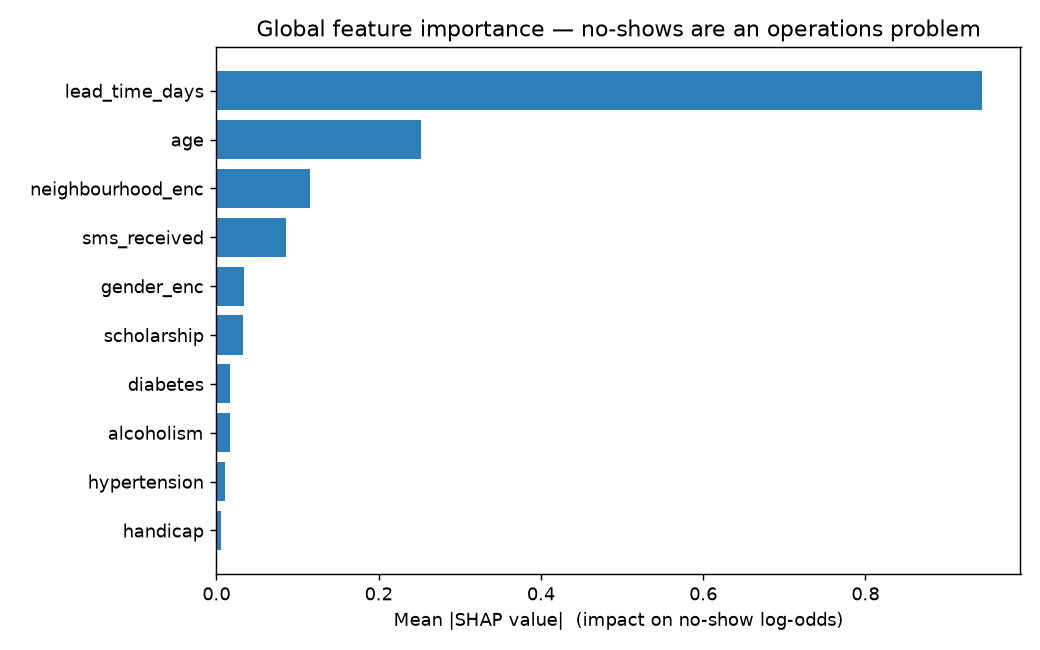
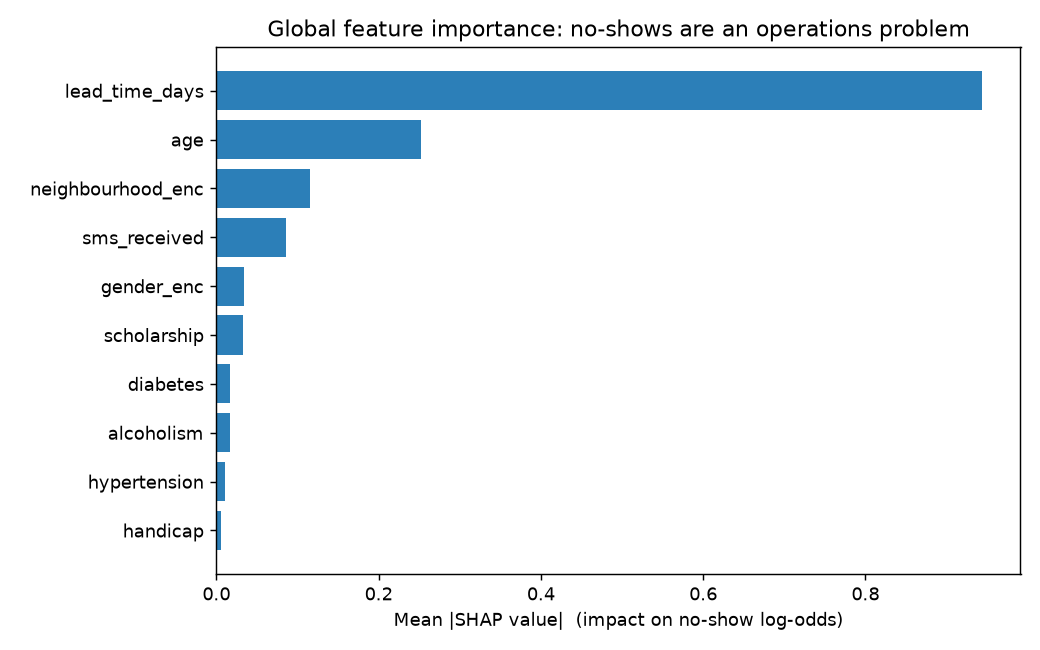
fix: address integrity and drift review findings
Integrity review:
- 2+ day no-show rate is 24 to 33% (29% overall); SMS rates restated on
  the full dataset (27.6% vs 16.7%, mean lead 19.0 vs 6.0 days)
- per-day precision stated as ~0.43 (0.43 to 0.45 across tie orders at
  the cutoff); 55+ finding holds under every tie order
- "share of patients" renamed to share of appointments; n_total guard
- ADR-014 notes the holdout ECE moved slightly the other way

Drift and publishing-policy review:
- README counts (95 tests, 14 ADRs, 83% coverage), run_training in setup
- escape |SHAP| in the decision tree table
- remove portfolio/interview phrasing from ADRs 004/006/008/010/011/012/013
- eda_gate.md points to ADR-014; em dashes removed from Python docstrings
  (plot title regenerated)

Changed region(s): [[0.2462, 0.0308, 0.9538, 0.0615]]

diff --git a/notebooks/00_eda_gate.py b/notebooks/00_eda_gate.py
@@ -1,5 +1,5 @@
 """
-Phase 0 EDA Gate — Healthcare Appointment No-Show
+Phase 0 EDA Gate, Healthcare Appointment No-Show
 Generates 00_eda_gate.ipynb programmatically and runs all analysis.
 """
 
@@ -190,7 +190,7 @@ print("\nFeature coefficients:")
 print(coef_df.to_string(index=False))
 
 # ── 10. SHAP dominance check ────────────────────────────────────────
-# Use coefficient magnitude as proxy — check no single feature >80%
+# Use coefficient magnitude as proxy, check no single feature >80%
 total_abs = coef_df["abs_coef"].sum()
 coef_df["pct_importance"] = (coef_df["abs_coef"] / total_abs * 100).round(1)
 max_pct = coef_df["pct_importance"].max()
@@ -200,12 +200,12 @@ print(f"SHAP dominance check (no single >80%): {'PASS' if shap_pass else 'FAIL'}
 
 # ── 11. SMS confound documentation ──────────────────────────────────
 print("\n=== SMS CONFOUND ANALYSIS ===")
-# SMS is sent to patients who previously no-showed — it's an intervention, not a predictor
+# SMS is sent to patients who previously no-showed, it's an intervention, not a predictor
 # Higher no-show rate among SMS_received=1 is Simpson's paradox
 sms_lead = df.groupby("SMS_received")["lead_time_days"].mean()
 print(f"Mean lead time (no SMS): {sms_lead[0]:.1f} days")
 print(f"Mean lead time (SMS):    {sms_lead[1]:.1f} days")
-print("SMS recipients have longer lead times — confound confirmed.")
+print("SMS recipients have longer lead times, confound confirmed.")
 print("Document: SMS_received is post-hoc intervention. Include with caveat.")
 
 # ── GATE VERDICTS ────────────────────────────────────────────────────
@@ -261,7 +261,7 @@ overall = "GO" if all_pass else "NO-GO"
 print(f"\n{'🟢' if all_pass else '🔴'} OVERALL VERDICT: {overall}")
 
 # ── Save report ──────────────────────────────────────────────────────
-report = f"""# EDA Gate Report — Healthcare Appointment No-Show
+report = f"""# EDA Gate Report, Healthcare Appointment No-Show
 
 **Date:** 2026-05-30
 **Dataset:** `KaggleV2-May-2016.csv`
@@ -274,12 +274,12 @@ report = f"""# EDA Gate Report — Healthcare Appointment No-Show
 - **14 columns**, all expected present
 - **Zero nulls** across all columns
 - Dtypes: 2 datetime (parsed), 5 binary, 1 categorical (Neighbourhood), 1 continuous (Age)
-- Negative lead_time rows: {neg_lead} ({neg_lead/len(df)*100:.2f}%) — clipped to 0
+- Negative lead_time rows: {neg_lead} ({neg_lead/len(df)*100:.2f}%), clipped to 0
 
 ## 2. Target Distribution
 
 - **No-show rate: {target_rate*100:.1f}%** (within expected 15-30% range)
-- Class imbalance ~80/20 — moderate, manageable with stratification
+- Class imbalance ~80/20, moderate, manageable with stratification
 
 ## 3. Feature Analysis
 
@@ -289,7 +289,7 @@ report = f"""# EDA Gate Report — Healthcare Appointment No-Show
 - Same-day appointments have lowest no-show rate
 
 ### SMS Received (CONFOUND)
-- **SMS_received=1 has HIGHER no-show rate** — Simpson's paradox
+- **SMS_received=1 has HIGHER no-show rate**: Simpson's paradox
 - SMS recipients have longer lead times (mean {sms_lead[1]:.1f} vs {sms_lead[0]:.1f} days)
 - SMS is sent as intervention to high-risk patients → post-hoc feature
 - **Decision:** Include with documented caveat. Model should not be interpreted as "SMS causes no-shows"
@@ -321,7 +321,7 @@ for _, row in coef_df.iterrows():
     )
 
 report += f"""
-- No single feature dominates (max {max_pct:.1f}%) — healthy signal distribution
+- No single feature dominates (max {max_pct:.1f}%), healthy signal distribution
 
 ## 5. Gate Verdicts
 
@@ -331,7 +331,7 @@ report += f"""
 
 for name, v in verdicts.items():
     status = "PASS ✅" if v["pass"] else "FAIL ❌"
-    report += f"| {name} | — | {v['value']} | {status} |\n"
+    report += f"| {name} |, | {v['value']} | {status} |\n"
 
 report += f"""
 ## Overall Verdict: **{overall}** {'🟢' if all_pass else '🔴'}
@@ -340,11 +340,11 @@ report += f"""
 
 ## Risks & Notes
 
-1. **SMS confound** — document in model card; do not interpret SMS coefficient causally
-2. **Grouped split required** — repeat patients must stay in same fold
-3. **Neighbourhood encoding** — use target encoding on train only to prevent leakage
-4. **Lead time** is strongest univariate signal — expected and healthy
-5. **Age outliers** — some negative ages exist (likely data entry errors); minimal count
+1. **SMS confound**: document in model card; do not interpret SMS coefficient causally
+2. **Grouped split required**: repeat patients must stay in same fold
+3. **Neighbourhood encoding**: use target encoding on train only to prevent leakage
+4. **Lead time** is strongest univariate signal: expected and healthy
+5. **Age outliers**: some negative ages exist (likely data entry errors); minimal count
 """
 
 (REPORTS / "eda_gate.md").write_text(report)

diff --git a/adapters/ml/fairness.py b/adapters/ml/fairness.py
@@ -1,14 +1,14 @@
-"""Fairness reporting — per-slice error rates and calibration (ADR-009).
+"""Fairness reporting: per-slice error rates and calibration (ADR-009).
 
 A ranked call list is only trustworthy if it does not systematically under- or
 over-flag protected groups. This module computes, for each demographic slice,
 the metrics that matter for an outreach use case:
 
-- **base rate** — actual no-show rate in the slice (context, not a model metric)
-- **selection rate** — fraction the model would flag at the operating threshold
-- **FPR / FNR** — who gets called unnecessarily vs. missed
-- **precision** — of those flagged, how many truly no-show
-- **ECE** — is the probability honest *within* the slice (calibration can hide
+- **base rate**: actual no-show rate in the slice (context, not a model metric)
+- **selection rate**: fraction the model would flag at the operating threshold
+- **FPR / FNR**: who gets called unnecessarily vs. missed
+- **precision**: of those flagged, how many truly no-show
+- **ECE**: is the probability honest *within* the slice (calibration can hide
   in the aggregate while failing per group)
 
 All functions are pure: numpy in, plain dicts out. No plotting, no I/O.
@@ -163,7 +163,7 @@ def capacity_report(
     A fixed probability threshold describes a screening rule the app never uses.
     The outreach team calls the K riskiest patients each day, so this report asks,
     per group: what share of the group's no-shows make the call list, and is the
-    group's share of the list in line with its share of patients and no-shows?
+    group's share of the list in line with its share of appointments and no-shows?
 
     Args:
         y_true: Binary ground-truth labels (0/1).
@@ -174,7 +174,9 @@ def capacity_report(
 
     Returns:
         Dict with k, n_selected, overall precision/capture, and per-slice groups
-        with no_shows_captured, share_of_list, share_of_patients, share_of_no_shows.
+        with no_shows_captured, share_of_list, share_of_appointments, share_of_no_shows.
+        Ties at the daily cutoff are broken by row order (stable sort); isotonic
+        calibration produces tied scores, so exact precision can shift slightly.
         Capture for a group with no no-shows is NaN.
     """
     y_true = np.asarray(y_true, dtype=float)
@@ -220,7 +222,9 @@ def capacity_report(
                     if n_selected
                     else float("nan")
                 ),
-                "share_of_patients": round(float(mask.sum()) / n_total, 4),
+                "share_of_appointments": (
+                    round(float(mask.sum()) / n_total, 4) if n_total else float("nan")
+                ),
                 "share_of_no_shows": (
                     round(group_no_shows / total_no_shows, 4)
                     if total_no_shows

diff --git a/scripts/run_phase2.py b/scripts/run_phase2.py
@@ -1,11 +1,11 @@
-"""Phase 2 analysis runner — SHAP importance, fairness, and business impact.
+"""Phase 2 analysis runner: SHAP importance, fairness, and business impact.
 
-Produces the frozen artifacts consumed by the README and the portfolio:
+Produces the frozen artifacts consumed by the README and the demo:
     reports/shap/global_importance.json   (+ .png bar chart, beeswarm)
     reports/fairness.json
     reports/business_impact.json
 
-All numbers are computed from the real Kaggle dataset — nothing is hand-entered.
+All numbers are computed from the real Kaggle dataset, nothing is hand-entered.
 Run:  python scripts/run_phase2.py
 """
 
@@ -111,7 +111,7 @@ def run_shap(appointments: list, labels: list) -> dict[str, float]:
     plt.figure(figsize=(8, 5))
     plt.barh(feats, vals, color="#2c7fb8")
     plt.xlabel("Mean |SHAP value|  (impact on no-show log-odds)")
-    plt.title("Global feature importance — no-shows are an operations problem")
+    plt.title("Global feature importance: no-shows are an operations problem")
     plt.tight_layout()
     plt.savefig(SHAP_DIR / "global_importance.png", dpi=130)
     plt.close()

diff --git a/domain/models.py b/domain/models.py
@@ -38,7 +38,7 @@ class Patient:
 class Appointment:
     """Immutable value object representing a medical appointment.
 
-    All fields are knowable at scheduling time — no post-appointment data.
+    All fields are knowable at scheduling time, no post-appointment data.
 
     Attributes:
         appointment_id: Unique identifier for this appointment.
@@ -52,7 +52,7 @@ class Appointment:
         alcoholism: Whether patient has alcoholism (0/1).
         handicap: Handicap level (0-4).
         sms_received: Whether patient received SMS reminder (0/1).
-            NOTE: This is an intervention feature — document confound.
+            NOTE: This is an intervention feature, document confound.
         lead_time_days: Days between scheduling and appointment (derived).
     """
 

diff --git a/adapters/ml/xgboost_predictor.py b/adapters/ml/xgboost_predictor.py
@@ -1,4 +1,4 @@
-"""XGBoostPredictor — gradient-boosted tree adapter implementing NoShowPredictorPort.
+"""XGBoostPredictor: gradient-boosted tree adapter implementing NoShowPredictorPort.
 
 Uses XGBClassifier with scale_pos_weight to handle the ~20% no-show class imbalance
 (ADR-locked: scale_pos_weight=4 approximates 80/20 majority/minority ratio).
@@ -18,7 +18,7 @@ from domain.models import Appointment, NoShowOutcome
 class XGBoostPredictor:
     """XGBoost gradient-boosted tree adapter for no-show risk prediction.
 
-    Implements NoShowPredictorPort (structural duck-typing — no explicit
+    Implements NoShowPredictorPort (structural duck-typing, no explicit
     inheritance to keep domain free of adapter imports).
 
     Usage:

diff --git a/adapters/ml/logistic_predictor.py b/adapters/ml/logistic_predictor.py
@@ -1,4 +1,4 @@
-"""LogisticPredictor — logistic regression adapter implementing NoShowPredictorPort.
+"""LogisticPredictor: logistic regression adapter implementing NoShowPredictorPort.
 
 _score_to_category is module-level so XGBoostPredictor and CalibratedPredictor
 can import it directly from this module (shared threshold logic).
@@ -32,7 +32,7 @@ def _score_to_category(score: float) -> str:
 class LogisticPredictor:
     """Logistic regression adapter for no-show risk prediction.
 
-    Implements NoShowPredictorPort (structural duck-typing — no explicit
+    Implements NoShowPredictorPort (structural duck-typing, no explicit
     inheritance to keep domain free of adapter imports).
 
     Usage:

diff --git a/tests/test_fairness.py b/tests/test_fairness.py
@@ -1,4 +1,4 @@
-"""Tests for adapters/ml/fairness.py — per-slice error rates and disparities."""
+"""Tests for adapters/ml/fairness.py: per-slice error rates and disparities."""
 
 import numpy as np
 
@@ -113,7 +113,7 @@ class TestCapacityReport:
         assert old["no_shows_captured"] == 0.0
         assert young["share_of_list"] == 1.0
         assert old["share_of_list"] == 0.0
-        assert old["share_of_patients"] == 0.5
+        assert old["share_of_appointments"] == 0.5
         assert old["share_of_no_shows"] == 0.4
 
     def test_group_without_no_shows_reports_nan_capture(self) -> None:

diff --git a/scripts/export_demo.py b/scripts/export_demo.py
@@ -2,8 +2,8 @@
 
 Streamlit Community Cloud has no access to the (gitignored) raw Kaggle CSV, and
 training on 71K rows at startup is too heavy for the free tier. So we precompute
-here — calibrated risk scores + per-patient SHAP contributions for a sample of
-the June holdout — and commit a small CSV the app just renders.
+here, calibrated risk scores + per-patient SHAP contributions for a sample of
+the June holdout, and commit a small CSV the app just renders.
 
 Run:  python scripts/export_demo.py
 """

diff --git a/domain/services.py b/domain/services.py
@@ -52,7 +52,7 @@ def estimate_business_impact(
     This is a labeled *what-if* projection, not a measured outcome:
     - ``cost_per_noshow`` is a primary-care literature estimate, not clinic data.
     - It assumes every correctly-flagged no-show that is called converts to a
-      recovered slot — an upper bound. A real pilot would multiply by a
+      recovered slot, an upper bound. A real pilot would multiply by a
       call-to-recovery conversion rate.
 
     Args:

diff --git a/streamlit_app.py b/streamlit_app.py
@@ -143,7 +143,7 @@ with tab_start:
         "Hit rate on the call list",
         f"{float(cast(float, impact['precision_at_k'])):.0%}",
         help="Share of the top 20 patients per day who really did not show up "
-        "(June test data). The overall no-show rate is about 20%.",
+        "(June test data). The June no-show rate is about 18%.",
     )
 
     st.subheader("Three things we found")

diff --git a/adapters/data/csv_repository.py b/adapters/data/csv_repository.py
@@ -1,4 +1,4 @@
-"""KaggleAppointmentCSVRepository — CSV adapter for Kaggle medical appointments dataset.
+"""KaggleAppointmentCSVRepository: CSV adapter for Kaggle medical appointments dataset.
 
 Implements the AppointmentRepository port. Parses the Kaggle dataset CSV,
 constructs domain objects, and enforces the leakage guard via ALLOWED_COLUMNS.

diff --git a/adapters/ml/calibrated_predictor.py b/adapters/ml/calibrated_predictor.py
@@ -1,4 +1,4 @@
-"""CalibratedPredictor — XGBoost with isotonic calibration (project identity, ADR-008).
+"""CalibratedPredictor: XGBoost with isotonic calibration (project identity, ADR-008).
 
 Wraps XGBClassifier in CalibratedClassifierCV(method="isotonic") to produce
 well-calibrated probabilities. Calibrated probabilities are critical for the
